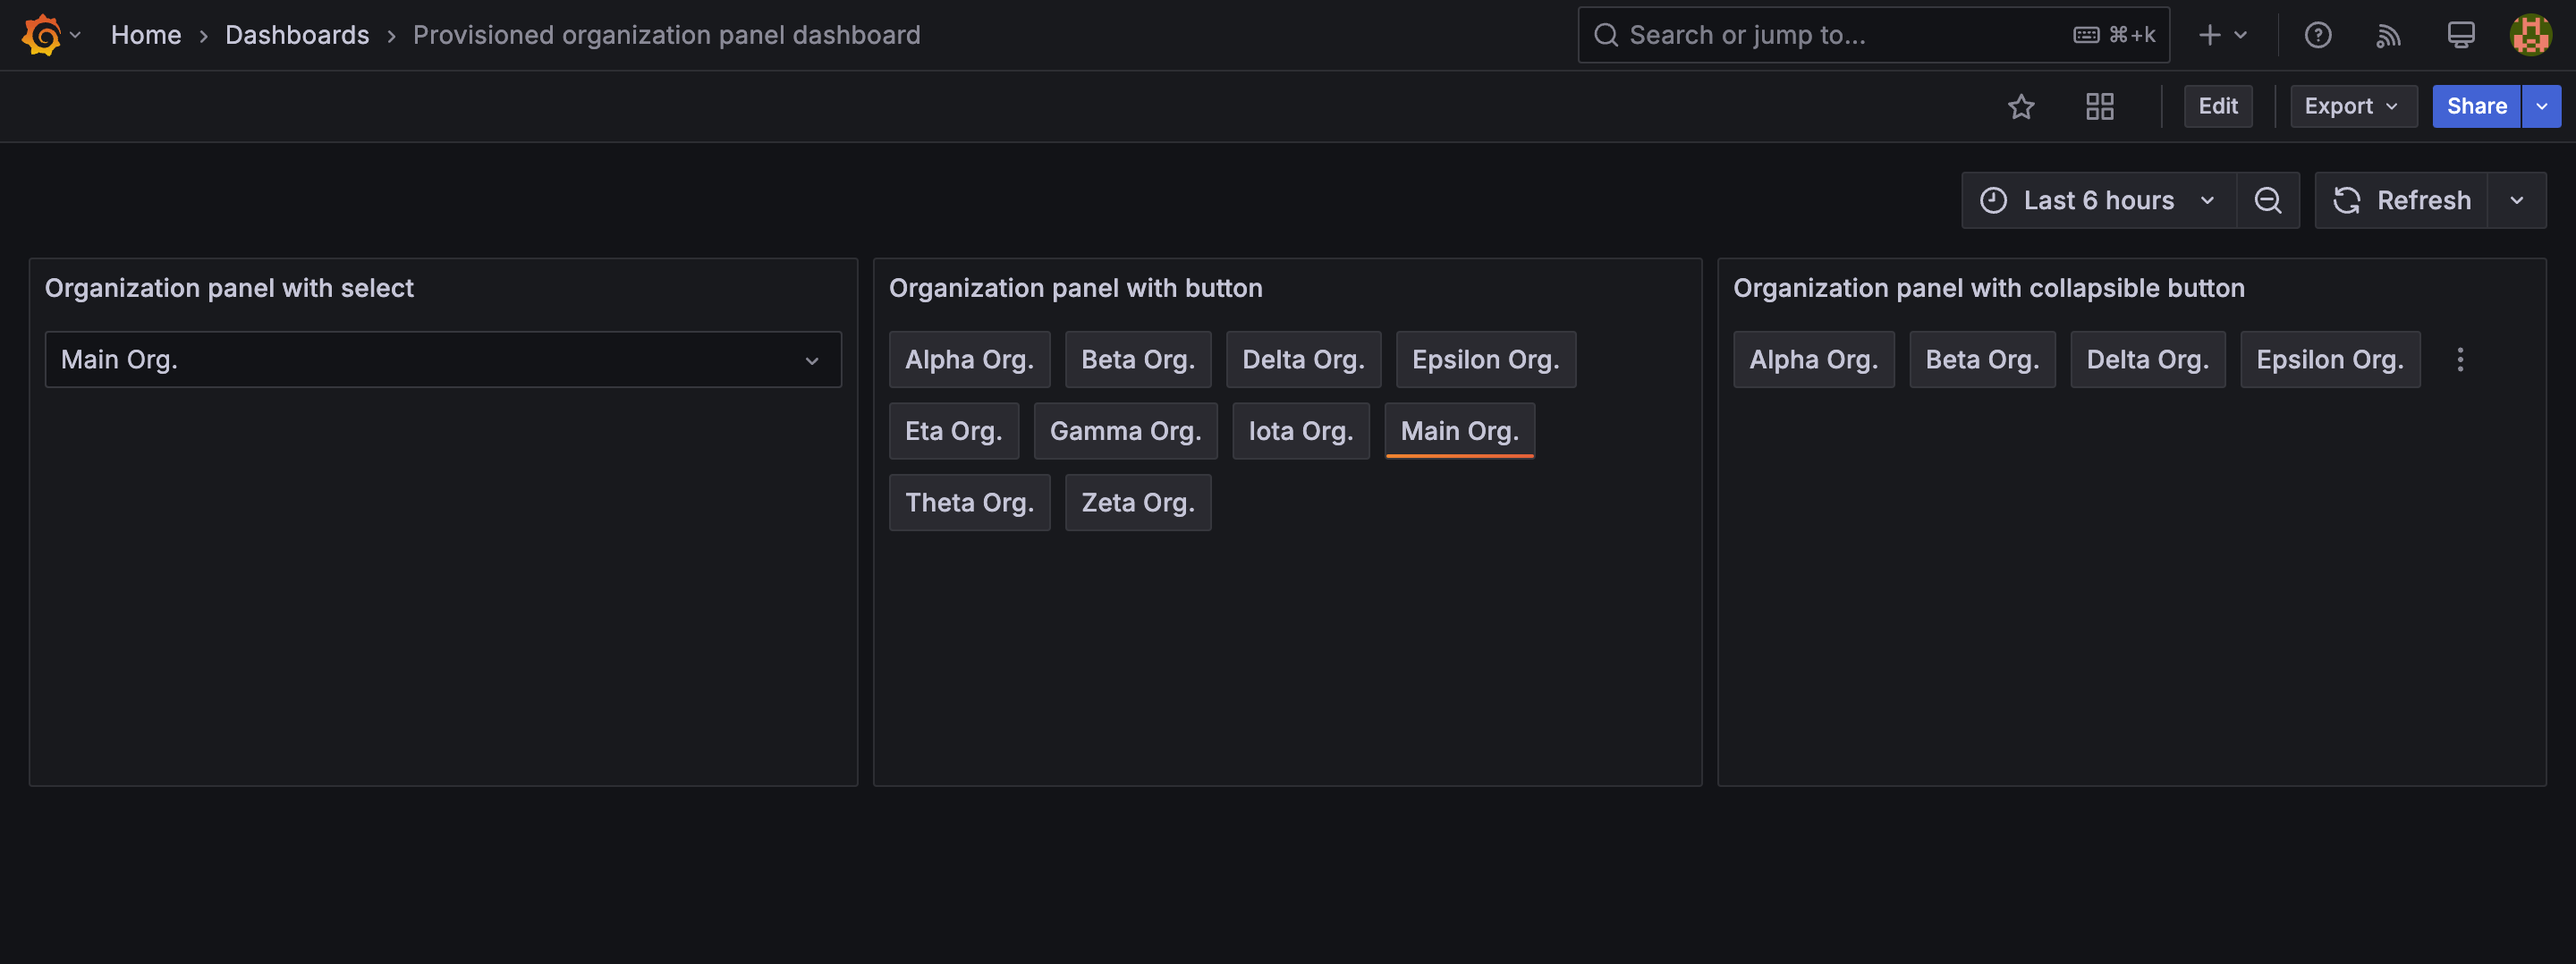
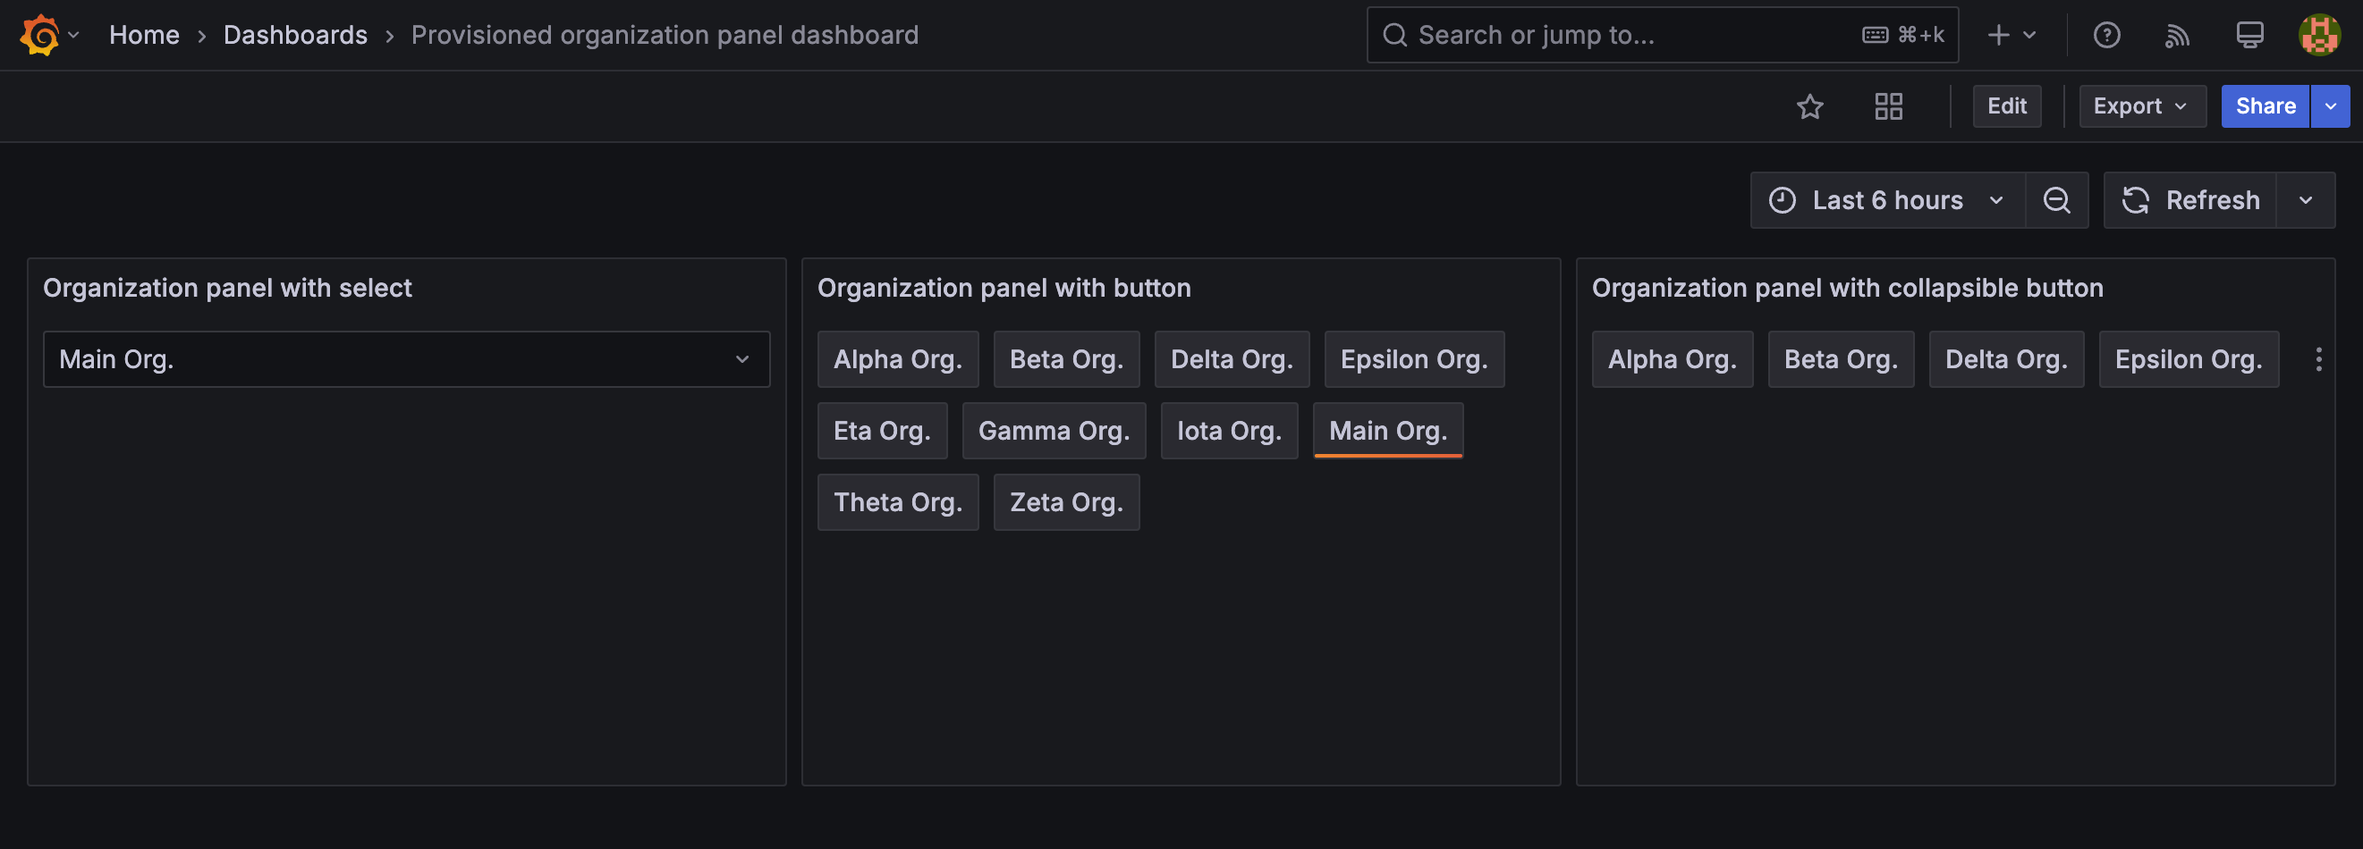
Remove select with combobox and update e2e test

diff --git a/tests/panel.spec.ts b/tests/panel.spec.ts
@@ -1,5 +1,5 @@
 import { test, expect } from '@grafana/plugin-e2e';
-import { getGrafanaBootData, switchOrg, getOrgList, getGrafanaVersion } from './utils';
+import { getGrafanaBootData, switchOrg, getOrgList, getPanelContentSelector } from './utils';
 
 test.describe('Organization Panel - Button Mode', () => {
   test.beforeEach(async ({ page, gotoPanelEditPage, readProvisionedDashboard }) => {
@@ -8,6 +8,9 @@ test.describe('Organization Panel - Button Mode', () => {
 
     const dashboard = await readProvisionedDashboard({ fileName: 'dashboard.json' });
     await gotoPanelEditPage({ dashboard, id: '2' });
+
+    // Wait for the organization panel to be visible
+    await page.waitForSelector('div[data-testid="data-testid panel content"]');
   });
 
   test.afterEach(async ({ page }) => {
@@ -76,6 +79,9 @@ test.describe('Organization Panel - Select Mode', () => {
 
     const dashboard = await readProvisionedDashboard({ fileName: 'dashboard.json' });
     await gotoPanelEditPage({ dashboard, id: '1' });
+
+    // Wait for the organization panel to be visible
+    await page.waitForSelector('div[data-testid="data-testid panel content"]');
   });
 
   test.afterEach(async ({ page }) => {
@@ -84,28 +90,15 @@ test.describe('Organization Panel - Select Mode', () => {
   });
 
   test('should generate options for all organizations', async ({ page, selectors }) => {
-    const grafanaBootData = await getGrafanaBootData(page);
-    const version = await getGrafanaVersion(page);
-
     // Get the list of organizations
     const orgList = await getOrgList(page);
 
-    // Check if the select is generated
-    let select = null;
-    if (version < 11) {
-      const panelHeader = page.getByTestId('data-testid Panel header Organization panel with select');
-      select = panelHeader.locator('[class*="input-wrapper"]');
-      await expect(select).toBeVisible();
-    } else {
-      select = page.getByTestId('org-select');
-      await expect(select).toBeVisible();
-    }
-
-    // Click the select to open the dropdown
-    await select.click();
-
-    // Check if the options are generated
-    const options = await page.locator('[id^="react-select"][id*="-option-"]');
+    const { panel, input } = getPanelContentSelector(page);
+    await expect(panel).toBeVisible();
+    await input.click();
+    
+    const menuId = await input.getAttribute('aria-controls');
+    const options = page.locator(`#${menuId} [role="option"] span`);
     await expect(options).toHaveCount(orgList.length);
 
     // Check if the options have the correct text
@@ -117,52 +110,34 @@ test.describe('Organization Panel - Select Mode', () => {
   });
 
   test('should select the current user organization', async ({ page }) => {
-    const version = await getGrafanaVersion(page);
-
     // Get the current organization ID
     const grafanaBootData = await getGrafanaBootData(page);
     expect(grafanaBootData.user).toHaveProperty('orgId');
     const currentOrgId = grafanaBootData.user.orgId;
     const currentOrgName = grafanaBootData.user.orgName;
 
-    // Check if the select is generated
-    let select = null;
-    if (version < 11) {
-      const panelHeader = page.getByTestId('data-testid Panel header Organization panel with select');
-      select = panelHeader.locator('[class*="input-wrapper"]');
-      await expect(select).toBeVisible();
-    } else {
-      select = page.getByTestId('org-select');
-      await expect(select).toBeVisible();
-    }
+    const { panel, input } = getPanelContentSelector(page);
+    await expect(panel).toBeVisible();
+    const selectedValue = await input.getAttribute('value');
 
-    // Check if the select has the correct pre-selected value
-    const selectedValue = await select.first().textContent();
     expect(selectedValue).toBe(currentOrgName);
   });
 
   test('should switch organization when selecting an option', async ({ page, gotoPanelEditPage }) => {
     const grafanaBootData = await getGrafanaBootData(page);
     const currentOrgId = grafanaBootData.user.orgId;
-    const version = await getGrafanaVersion(page);
 
     // Get the list of organizations
     const orgList = await getOrgList(page);
 
-    // Check if the select is generated
-    let select = null;
-    if (version < 11) {
-      const panelHeader = page.getByTestId('data-testid Panel header Organization panel with select');
-      select = panelHeader.locator('[class*="input-wrapper"]');
-      await expect(select).toBeVisible();
-    } else {
-      select = page.getByTestId('org-select');
-      await expect(select).toBeVisible();
-    }
+    const { panel, input } = getPanelContentSelector(page);
+    await expect(panel).toBeVisible();
+    await input.click();
+    
+    const menuId = await input.getAttribute('aria-controls');
+    const options = page.locator(`#${menuId} [role="option"] span`);
 
-    // Click the select to open the dropdown
-    await select.click();
-    await page.waitForSelector('[id^="react-select"][id*="-option-"]');
+    await expect(options).toHaveCount(orgList.length);
 
     // Switch to a different organization
     let newOrgId = '';
@@ -173,11 +148,8 @@ test.describe('Organization Panel - Select Mode', () => {
         newOrgName = org.name;
         console.log(`Redirect to org: ${newOrgId}`);
         let option = null;
-        if (version < 11) {
-          option = page.locator('[aria-label="Select option"]').filter({ hasText: org.name });
-        } else {
-          option = page.locator('[role="option"]').filter({ hasText: org.name });
-        }
+        option = options.filter({ hasText: org.name });
+
         await expect(option).toBeVisible();
         await option.click();
         await page.waitForURL((url) => url.searchParams.get('orgId') === newOrgId);

diff --git a/tests/utils.ts b/tests/utils.ts
@@ -28,19 +28,18 @@ export async function getOrgList(page): Promise<any[]> {
   });
 }
 
-export async function getGrafanaVersion(page): Promise<number> {
-  const bootData = await getGrafanaBootData(page);
+export function getPanelContentSelector(page: Page) {
+  const panel = page.getByTestId('data-testid panel content');
+  return {
+    panel,
+    input: panel.locator('input'),
+  };
+}
 
-  const versionString = bootData?.settings?.buildInfo?.version;
-  if (!versionString || typeof versionString !== 'string') {
-    throw new Error('Failed to retrieve Grafana version');
-  }
-
-  const majorVersion = Number(versionString.split('.')[0]);
-
-  if (isNaN(majorVersion)) {
-    throw new Error(`Invalid Grafana version format: ${versionString}`);
-  }
-
-  return majorVersion;
+export async function openOrgSelect(page: Page) {
+  const { input } = getPanelContentSelector(page);
+  await input.click();
+  const menuId = await input.getAttribute('aria-controls');
+  const options = page.locator(`#${menuId} [role="option"] span`);
+  return { menuId, options };
 }

diff --git a/src/components/OrganizationPanelPanel.tsx b/src/components/OrganizationPanelPanel.tsx
@@ -2,7 +2,7 @@ import { css, cx } from '@emotion/css';
 import React, { useState, useEffect, useCallback, useMemo } from 'react';
 import { PanelProps, GrafanaTheme2 } from '@grafana/data';
 import { OrganizationPanelOptions, Organization } from 'types';
-import { ToolbarButtonRow, ToolbarButton, Button, Select, useTheme2 } from '@grafana/ui';
+import { ToolbarButtonRow, ToolbarButton, Button, Combobox, useTheme2 } from '@grafana/ui';
 import { getBackendSrv } from '@grafana/runtime';
 
 interface Props extends PanelProps<OrganizationPanelOptions> {}
@@ -52,7 +52,7 @@ export const SimplePanel: React.FC<Props> = ({ options }) => {
   switch (options.displayMode) {
     case 'select':
       return (
-        <Select
+        <Combobox
           data-testid="org-select"
           options={organizationsList}
           value={currentOrg}

diff --git a/playwright.config.ts b/playwright.config.ts
@@ -16,6 +16,7 @@ const pluginE2eAuth = `${dirname(require.resolve('@grafana/plugin-e2e'))}/auth`;
 export default defineConfig<PluginOptions>({
   globalSetup: './global.setup.ts',
   testDir: './tests',
+  workers: 1,
   /* Run tests in files in parallel */
   fullyParallel: true,
   /* Fail the build on CI if you accidentally left test.only in the source code. */

diff --git a/README.md b/README.md
@@ -1,6 +1,6 @@
 # Organization Panel
 
-![Grafana](https://img.shields.io/badge/Grafana-10+-orange)
+![Grafana](https://img.shields.io/badge/Grafana-11+-orange)
 ![CI](https://github.com/blueswen/grafana-organization-panel/workflows/CI/badge.svg)
 [![CodeQL](https://github.com/blueswen/grafana-organization-panel/actions/workflows/codeql-analysis.yml/badge.svg)](https://github.com/blueswen/grafana-organization-panel/actions/workflows/codeql-analysis.yml)
 [![Known Vulnerabilities](https://snyk.io/test/github/blueswen/grafana-organization-panel/badge.svg)](https://snyk.io/test/github/blueswen/grafana-organization-panel)

diff --git a/src/README.md b/src/README.md
@@ -1,6 +1,6 @@
 # Organization Panel
 
-![Grafana](https://img.shields.io/badge/Grafana-10+-orange)
+![Grafana](https://img.shields.io/badge/Grafana-11+-orange)
 ![CI](https://github.com/blueswen/grafana-organization-panel/workflows/CI/badge.svg)
 [![CodeQL](https://github.com/blueswen/grafana-organization-panel/actions/workflows/codeql-analysis.yml/badge.svg)](https://github.com/blueswen/grafana-organization-panel/actions/workflows/codeql-analysis.yml)
 [![Known Vulnerabilities](https://snyk.io/test/github/blueswen/grafana-organization-panel/badge.svg)](https://snyk.io/test/github/blueswen/grafana-organization-panel)
